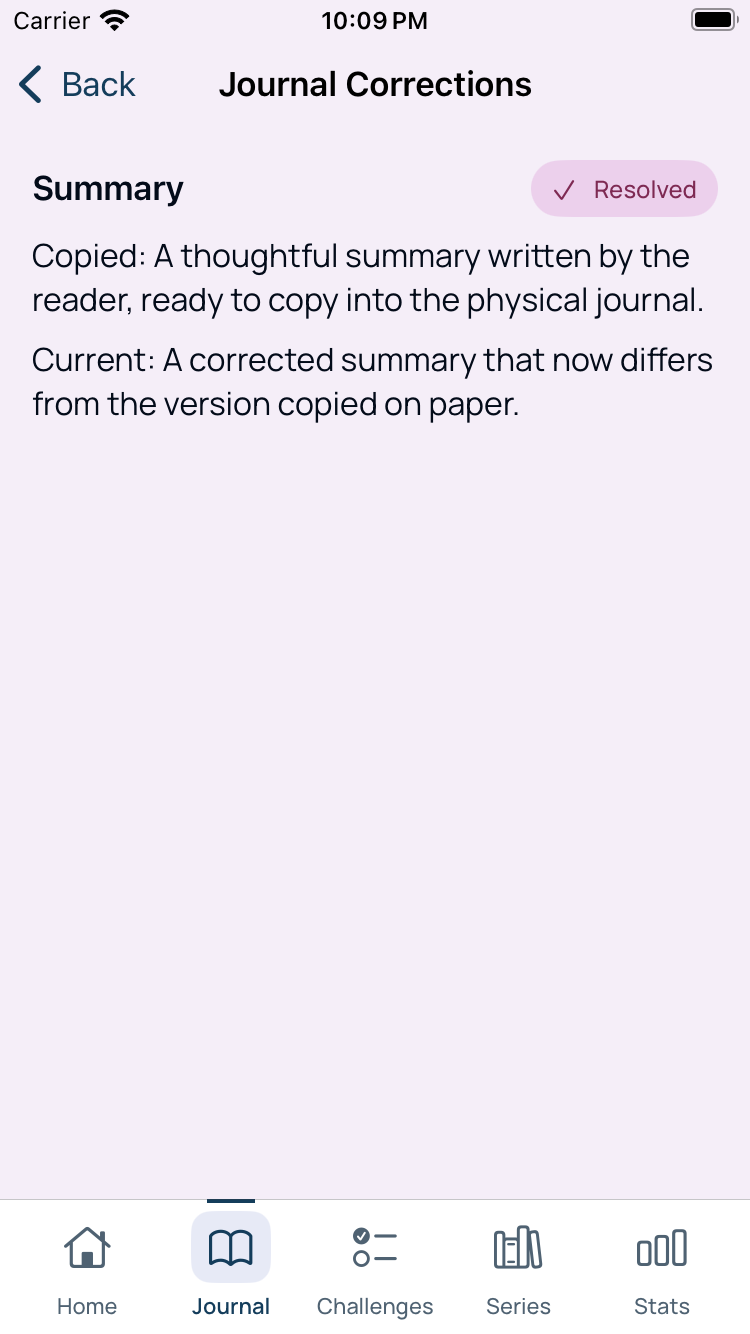
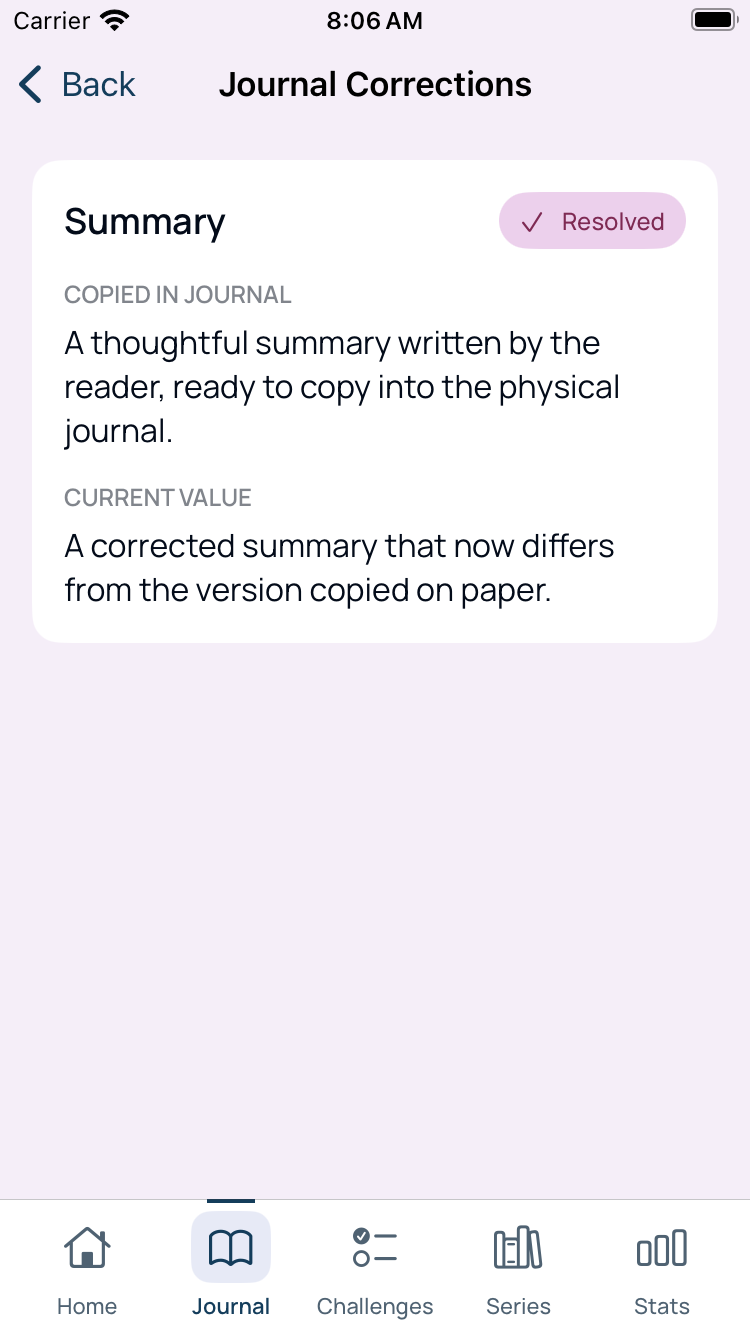
Publish Phase 3 visual correction boards

Changed region(s): [[0.0307, 0.1229, 0.9813, 0.3381], [0.092, 0.3688, 0.828, 0.461], [0.4293, 0.0, 0.5827, 0.0307]]

diff --git a/docs/qa/phase-3/README.md b/docs/qa/phase-3/README.md
@@ -1,7 +1,7 @@
 # Phase 3 Journal — Human Visual QA
 
 These boards are review material, not design approval. They were generated from
-CI run [#37238428991](https://github.com/angels00607/reading-companion/actions/runs/37238428991)
+CI run [#37280747592](https://github.com/angels00607/reading-companion/actions/runs/37280747592)
 on an iPhone SE (3rd generation). The original captures remain in `captures/` and
 in the run's `phase-3-journal-visual-qa` artifact.
 
@@ -12,10 +12,12 @@ in the run's `phase-3-journal-visual-qa` artifact.
   Reviews; manual Summary and truthful assistant-unavailable boundary; Favorite,
   Quote and No-quote preparation controls; focused Journal Session; pending and
   explicitly resolved Journal Correction.
-- `board-dark-standard.png` — Dark, Standard Dynamic Type: My Journal/refill and
-  Inbox Ready/Pending/Copied, including lower content and long-title behavior.
+- `board-dark-standard.png` — Dark, Standard Dynamic Type: the same overview,
+  Inbox, Book Review, Favorite/Quote, Journal Session and Correction states as
+  the Light board. The approved Dark palette is unchanged.
 - `board-light-accessibility-xxxl.png` — Light, Accessibility XXXL: vertical reflow
-  of overview and Inbox at compact iPhone width. Scrolling is intentional.
+  of overview, Inbox status cards, Book Review and Journal Session at compact
+  iPhone width. Scrolling is intentional and content is not compressed.
 
 ## Coverage checklist
 
@@ -23,18 +25,18 @@ in the run's `phase-3-journal-visual-qa` artifact.
 | --- | --- |
 | Journal Inbox — Pending | Light/Dark/AXXXL Inbox boards |
 | Journal Inbox — Ready | Light/Dark/AXXXL Inbox boards |
-| Copied state | Light/Dark/AXXXL lower Inbox captures |
-| Book Review — incomplete | Light Standard board |
-| Book Review — complete/Ready | Light Standard board (`No rating` is explicit) |
-| Summary field | Light Standard Book Review captures |
-| Summary Assistant boundary | Light Standard Book Review captures |
-| Favorite / No favorite | Light Standard Favorite/Quotes capture |
-| Quotes / No quote | Light Standard Favorite/Quotes capture |
+| Copied state | Light/Dark Standard lower Inbox captures |
+| Book Review — incomplete | Light/Dark Standard boards |
+| Book Review — complete/Ready | Light/Dark Standard and AXXXL boards (`No rating` is explicit) |
+| Summary field | Light/Dark Standard and AXXXL Book Review captures |
+| Summary Assistant boundary | Light/Dark Standard Book Review captures |
+| Favorite / No favorite | Light/Dark Favorite/Quotes captures |
+| Quotes / No quote | Light/Dark Favorite/Quotes captures |
 | My Journal overview | All three boards |
 | Refill usage/capacity | All three boards (`1 of 100`, 99 remaining) |
-| Journal Session | Light Standard board; bottom navigation hidden |
-| Journal Correction pending | Light Standard board |
-| Journal Correction resolved | Light Standard board |
+| Journal Session | Light/Dark Standard and AXXXL boards; bottom navigation hidden |
+| Journal Correction pending | Light/Dark Standard boards |
+| Journal Correction resolved | Light/Dark Standard boards |
 | Long title / compact width | Inbox boards |
 | Light Standard | `board-light-standard.png` |
 | Dark Standard | `board-dark-standard.png` |

diff --git a/docs/PHASE_3_STATUS.md b/docs/PHASE_3_STATUS.md
@@ -57,14 +57,26 @@ Local validation completed:
 - Books schema regression tests: 3 tests pass.
 - Xcode project generation: pass.
 
-CI #37238428991 passes the complete 58-test Swift/XCTest suite, iOS simulator build,
+In CI #37280747592, the complete 58-test Swift/XCTest suite, iOS simulator build,
 Supabase migration/RLS tests, SQLite checks, official Journal acceptance flow and
-Journal visual capture run. Phase 3 adds
+Journal visual capture run pass. Phase 3 adds
 domain/data coverage for readiness, exact capacities, idempotent completion,
 Favorite/Quote decisions, Ready/Copied separation and Corrections. CI produces
 Light Standard, Dark Standard and Accessibility XXXL captures in the
 `phase-3-journal-visual-qa` artifact. Labelled contact sheets and their source
 captures are in `docs/qa/phase-3/`. Human approval is not claimed.
+
+The Human Visual QA correction pass is applied without changing the Phase 3
+domain or persistence model. Functional titles and book metadata now use Manrope;
+Papernotes is reserved for restrained Journal identity at standard text sizes.
+The volume summary is a distinct surface with explicit `1 of 100` usage and
+remaining capacity. Inbox status chips live inside their cards and move below
+metadata at accessibility sizes. Book Review is grouped into Review details, Your
+reading, Favorite and Quote sections; the unavailable Summary Assistant remains
+truthful and manual editing remains primary. The focused session presents one
+clear copy card, while Corrections explicitly distinguish copied and current
+values and require an explicit resolution action. Dark semantic colors and the
+approved palette are unchanged.
 
 The existing Foundation accessibility audit remains unfiltered with unchanged
 thresholds. Its previously documented Phase 1/2 findings, physical-device review,
